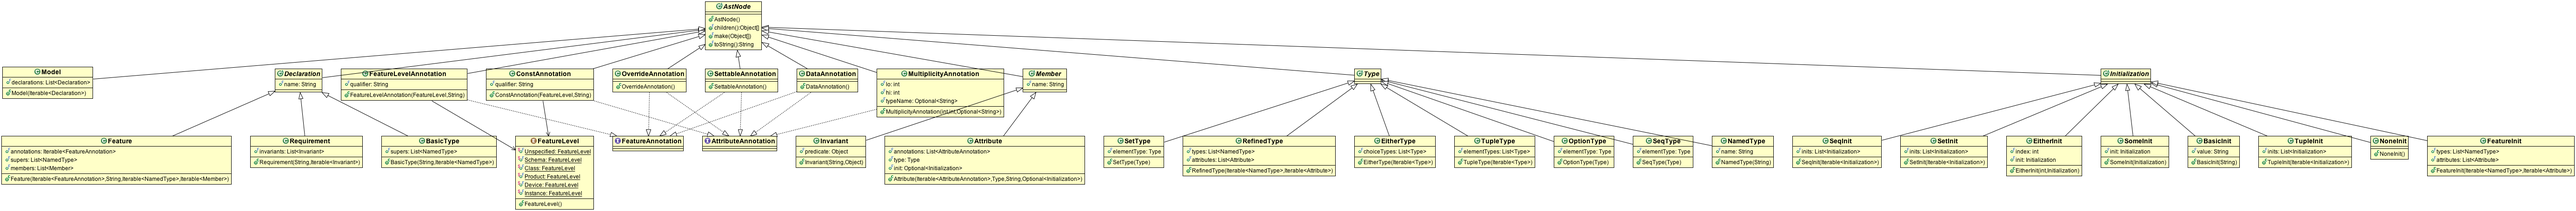
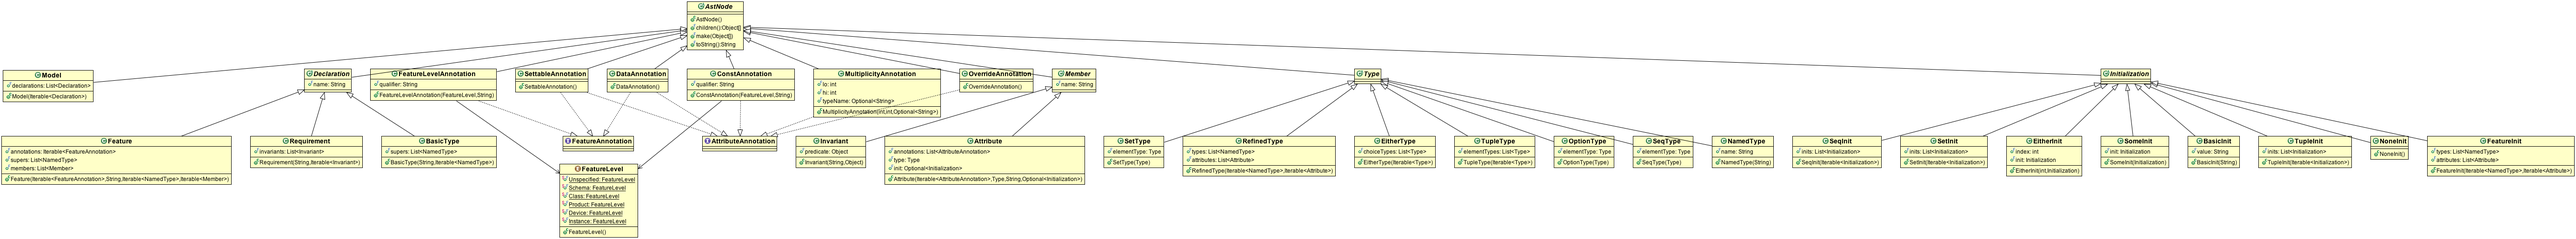
Removed FeatureAnnotation as super interface of OverrideAnnotation.

Changed region(s): [[0.0, 0.0, 0.9995, 1.0], [0.7184, 0.2769, 0.7808, 0.3385]]

diff --git a/doc/dms/searchindex.js b/doc/dms/searchindex.js
@@ -1,1 +1,1 @@
-Search.setIndex({objects:{},terms:{represent:[0,1,2,7,6,4],all:[0,3,6,4,2],code:[2,3,4,6],illustr:[4,6],queri:4,lack:6,xstream:4,four:0,invariantobject:0,edu:[1,4,6,2],follow:[0,3,4,6],guava:4,children:[2,4],whose:[0,6,2],"const":[0,7],xml:[2,3,4],icepulseox:0,basictypeappli:6,present:0,skip:4,leav:6,junit:[3,4],introduc:0,sourc:[3,4],string:[0,1,2,7,5,6,4],fals:[5,4,6],"void":4,lattic:[0,6],util:[3,4],defaultcas:4,stackoverflow:[],affect:2,exact:0,relev:[0,4,6],exmodelsymbolt:4,level:[0,3,7],list:[0,1,2,4,5,6],iter:4,kansa:1,"try":3,id_requir:0,team:3,println:4,oximet:0,pleas:[0,3,6],prevent:0,basictypebodi:6,uniqu:[],second:[4,6],design:2,nulliti:[1,7,2],pass:3,download:3,further:4,click:3,append:6,what:[2,4],abc:2,sub:[0,4,6,1],neg:[],section:[0,7,4,6],"while":[0,2],access:[3,4],"new":[5,0,4,6],exsbasictypefail:6,method:[0,4,6,2],midbar:2,oci:1,fromxml:4,behavior:[2,6],variat:7,gener:[0,6,1],xstreamer:[0,1,2,4,5,6],here:7,satisfi:[0,6],id_appli:6,address:4,stxml:4,depend:0,along:4,parenthesi:[2,6],modifi:0,implicit:[0,1,2,7,5,6,4],valu:[0,1,2,4,5,6],box:3,convert:[4,6],convers:[1,7,4,6],id_attribut:[5,0],addion:[],step:3,precis:[4,6],overriden:[0,4],opinion:1,implement:[1,7,6,4,2],jre:3,writer:[0,1,2,4,5,6],shorthand:2,integraltyp:[0,1,2,4,5,6],appli:[0,1,2,4,5,6],app:[3,4],foundat:1,backtick:0,put:0,"boolean":[0,1,2,4,5,6],supertransitivemap:[0,6],instal:3,select:3,from:[0,4,6,2],describ:[0,7,6,4,2],would:[0,4],memori:3,pred:[0,1,2,4,5,6],prescript:7,visit:4,subvers:3,call:[0,4,6,2],typo:0,recommend:[0,4,6,1],basictypeopt:6,care:6,type:[0,1,2,7,5,6,4],basicasstringmethod:6,recoqn:6,more:[0,4,6,2],diamond:0,trait:[0,1,2,4,5,6],notif:4,exbasictyp:[],notic:4,warn:4,indic:[0,3,6,4,2],particular:0,hold:[0,6],must:0,none:5,retriev:[0,4,6],setup:4,work:[0,3,4],annot:[0,7,1],can:[0,2,3,4,6,7],jdt:3,purpos:[0,6],root:6,def:6,overrid:[5,0,7,4,6],factori:[1,7,6],weaker:4,want:0,stream:4,give:[4,6],process:[0,4,2],exmodel:4,spo2:0,javadoc:4,accept:[0,7],high:0,liter:6,id_featur:0,serial:[0,1,2,7,5,6,4],occur:[2,4],alwai:[4,6],differenti:0,constmod:[],multipl:[0,7,4],quot:2,anoth:6,scalapi:[],write:3,how:[7,4,6],pure:6,instead:[0,3,7,4,6],simpl:6,circular:6,exsbasictypeexplicit:6,featuremodifi:[],product:[0,2],recogn:0,circuit:4,kindopt:[0,6],max:0,after:[0,3,4,2],variant:[0,4],reflect:[0,4,1],befor:[0,3,4,6],cours:4,mai:[0,4,2],mutat:2,underscor:2,data:[0,7],funsuit:4,third:4,grant:1,explicit:6,element:[0,4],issu:[3,4],inform:0,combin:4,dread:0,namedtyp:[0,6],subtyp:[4,6],svnkit:3,order:7,ssh:3,extractor:7,medic:0,help:3,over:[0,6],becaus:[2,7,4,6],through:[2,4],symbolt:[0,1,2,7,5,6,4],hierarchi:[0,7,6,1],still:[0,3],dynam:4,paramet:[2,4],style:3,group:2,thank:4,jettison:4,scalaexp:[5,0,6,2],cla:0,bytecod:4,platform:3,offic:1,persist:3,featurelevel:0,main:0,easier:4,non:[0,4,6,2],"return":[0,4,2],thei:[0,4,6],auto:0,initi:[0,1,7,5,6,4],nation:1,mention:[0,4,1],automat:6,ebnf:2,discuss:[2,6],fromjson:4,introduct:0,grammar:[0,4,6,2],name:[0,4,6],intrang:0,separ:[2,6],token:2,val:[0,1,2,4,5,6],massachusett:1,each:[0,4,6,2],debug:6,fulli:[0,4,6],side:6,mean:[0,3,6],compil:[2,3,4,6],outputstream:[0,1,2,4,5,6],formatterprefer:3,laboratori:1,continu:4,line:[3,4,6],meta:[],"static":[2,4],expect:[4,6],exmodelvisitor:4,mxml:4,extract:[0,1,2,7,6,4],special:0,out:[4,6],variabl:[0,4],visitbasictyp:[0,1,2,4,5,6],shown:[4,6],unbound:0,dataannot:0,req:0,research:1,content:1,typenam:0,rational:[],reader:[0,1,2,4,5,6],print:4,astnod:[2,4],ref:[],correct:3,multiplicityannot:0,qualifi:[0,4,6,2],proxi:4,insid:4,ast:[0,1,2,4,5,6],situat:[4,6],given:[2,4],free:[0,2],multimonitor:4,reason:0,custim:4,ask:3,org:[3,4],hand:4,basi:[],thrown:4,diagram:[0,2],featureannot:0,launch:3,angl:2,turn:0,enforc:[0,6,2],place:4,outsid:0,attributeannot:0,confus:[0,6],assign:[0,6],first:[0,4,6],oper:[1,7,6],softwar:[],rang:[0,1,2,4,5,6],directli:[0,6],arrai:[2,4],number:[0,1,2,4,5,6],declarationnam:[0,6],instruct:3,alreadi:3,done:[0,2],least:[0,6],owner:3,agre:3,facil:0,size:[0,4],avail:[3,4,6],differ:[0,7,4],featurelevelannot:0,workaround:0,associ:[0,2],top:[0,4],system:4,wrapper:6,necessarili:1,similarli:[0,3,6,2],termin:0,cimit:1,"final":[0,6,2],store:[0,6,2],schema:[0,1,2,4,5,6],adher:0,consol:4,option:[5,2,6],tool:0,copi:[],specifi:[0,7,4,2],"short":4,accompani:[0,6],than:[0,4],wide:3,kind:[0,6],scheme:0,whenev:[0,4],provid:[0,7,6,4,2],quantum:1,tree:[0,6,2],rate:0,importdm:4,charact:2,project:3,macro:[0,1,2,4,5,6],ilist:4,exmodelextractor:4,runner:4,ani:[0,1,3,5,6,4],packag:[0,1,2,3,5,6,4],have:[0,3,4,6],tabl:[0,1,2,7,6,4],need:[4,6],seen:4,seem:[4,6],nellcorpulseox:4,squar:2,equival:[2,4,6],min:0,rout:4,predicatetyp:0,contact:[1,3],note:[0,7,4,6],mix:0,exampl:[0,1,2,4,5,6],take:4,which:[0,4,6,2],featureopt:0,environ:[1,3],sure:[3,4],node:[2,4],allow:[0,4,6],object:[0,1,2,4,5,6],reach:4,physioparam:0,exmodelweak:4,letter:4,"class":[0,1,2,7,5,6,4],appear:4,doe:[0,4,6,2],declar:[0,1,2,7,6,4],runtim:[2,4],clean:3,constrain:0,left:[5,4],show:3,visitor:[1,7,4,2],syntax:[0,2],isfeaturetyp:[],find:[1,4],ksu:[2,4,6],current:[0,4],onli:[0,6,2],explicitli:[0,6],explain:2,configur:3,exsbasictyp:6,behind:2,should:[0,2,3,4,6,7],basictypeobject:6,templat:[],folder:3,custom:[0,3,4],variou:[0,4,2],familiar:7,express:[0,7,2,4,1],nativ:3,cannot:0,classload:4,report:4,requir:[0,1,2,7,5,6,4],sireum:[3,4],enabl:3,organ:[1,6],naur:2,"public":[2,4],contain:[0,4],nibib:1,where:[0,4],view:[1,6],user:[4,6],de_seri:4,set:[0,1,3,5,6,4],seq:5,robbi:1,rangeset:0,metricattribut:0,id_bas:[5,2,6],sec:[],result:6,arg:3,fail:[3,6],close:3,detect:0,kei:3,eclip:3,pattern:[0,4],boundari:6,conveni:4,state:[6,0,2,1],between:0,"import":[2,3,4,6],entiti:[2,4,6],basictypeclass:6,attribut:[0,1,7,5,6,4],altern:[2,4,6],extend:[0,4,6,2],weak:4,disallow:0,weav:3,lowercas:4,noninpulseox:4,eclips:3,isbasictyp:6,addit:[0,3,6,4,2],closur:0,last:0,delimit:[0,2],issupertypeof:[0,6],career:1,howev:[0,4],equal:0,contract:1,attributeinvari:[],instanc:[0,4,6],context:2,mani:4,whole:[],load:4,among:4,visitdeclar:[0,1,2,4,5,6],simpli:6,sireumdev:3,overview:[1,7,2],exsbasictypeappli:6,written:4,classof:[0,4],suppli:[3,4],respect:[0,3,4,2],inadvert:0,assum:4,quit:3,unsuccess:3,java:[0,2,3,4,5,6,7],addition:6,primordi:4,devic:[0,7,6,1],three:0,empti:[0,4],github:3,json:4,unexpect:6,treat:7,interest:4,basic:[0,1,2,7,6,4],decend:4,attributeinit:5,inv:0,both:4,formed:[0,1,2,7,6,4],argument:3,coordin:0,zero:[0,2],togeth:0,workspac:3,predic:[0,1,2,4,5,6],univers:[0,6,1],repetit:2,those:1,"case":[0,4,6],look:6,tostr:[0,1,2,4,5,6],also:[2,3,4],properti:3,air:1,formatt:3,defin:[2,4,6],invok:4,abov:4,error:[3,4,6],anonym:0,basicinternaltyp:6,observ:[2,6],larger:0,helper:4,henc:[2,4],them:0,basictypeapplyoth:6,overrideannot:0,lightweight:0,recal:6,tojson:4,dedic:0,sever:[0,6],scienc:1,incompat:4,develop:[0,3,1],welcom:1,author:1,make:[3,4],belong:0,classpath:4,same:[4,6],member:[0,3,4],descend:6,icedevic:0,constannot:0,document:[0,6,1],infer:[4,6],complet:0,nih:1,http:3,structur:[0,4,6,2],see:[0,4,6],optim:2,pick:3,"null":2,effect:6,companion:[0,1,2,4,5,6],pulseox:0,refin:[5,0,7,1],typic:6,built:[1,7,6],basicopmethod:[0,6],travers:[1,7,4],appropri:[2,4],lib:3,choos:4,com:[],thu:[0,4,6],well:[0,1,2,7,6,4],inherit:[0,6,2],without:[0,4],runtimeexcept:4,client:3,command:3,thi:[0,1,3,4,6,7],interpol:[0,1,2,4,5,6],model:[0,1,2,7,6,4],ccf:1,guidelin:7,moreov:[0,3],usual:0,construct:[0,7,2,4,1],identifi:[0,2],just:[4,6],less:0,fa9550:1,compound:0,basicinit:6,settabl:[0,7],regardless:6,languag:[0,7,1],previous:[0,4,6,1],scalatest:4,runwith:4,hint:2,point:0,except:4,ivisitor:[0,1,2,4,5,6],add:[0,3],valid:2,primit:6,illust:4,settbleannot:[],subsequ:4,warrant:4,match:0,build:[2,4],applic:0,assig:0,function1:0,format:3,read:[0,4],prefer:3,issubtypeof:[0,6],realiz:4,know:2,part:[0,2,1],you:3,formal:2,insert:6,like:[2,4],specif:[0,7,2,4,1],arbitrari:[],manual:4,exsmodel:4,integ:[],collect:0,api:[0,1,2,7,6,4],either:[5,0,4,6],output:4,inter:0,mdcf:[0,1,2,3,5,6,4],page:3,deseri:4,www:3,right:[5,3,4],acknowledg:1,some:[0,2,3,4,5,7],back:4,extractmodel:4,resolv:[0,2],intern:6,subtransitivemap:[0,6],"export":6,mistak:0,librari:3,throughout:2,lead:0,scala:[0,1,2,3,4,5,6,7],avoid:0,per:[],evolv:0,exit:3,settl:0,sequenc:0,uml:[0,2],foo:[4,6],refer:[2,4,6],plu:2,investig:4,run:[0,3],signifi:[],word:6,basictostringmethod:6,repositori:3,found:[4,6],santo:[1,4,6,2],immut:[1,7,6,4,2],"super":[0,6],"throw":4,stage:0,settableannot:0,isfeatur:0,constraint:0,materi:1,commun:0,unfortun:0,map:0,includ:4,dialog:3,constructor:[2,6],commit:3,produc:[2,4,6],block:4,attributemodifi:5,subset:[0,2],abstractvisitor:[0,1,2,4,5,6],consid:[0,6],unreach:4,within:0,encod:7,bound:0,nsf:1,featuretyp:[5,0],down:4,toxml:4,been:0,wrap:6,chang:[0,2],your:3,sireum_hom:3,unconvent:0,inclus:0,institut:1,basictyp:[0,1,2,4,5,6],wai:7,support:[0,4,1],question:[],why:0,myreqpulseox:[0,1,2,4,5,6],start:[0,4,2],interfac:[3,4],low:0,under:2,"function":0,svn:3,visitmodel:4,properli:4,tangibl:[],form:[0,1,2,7,6,4],modelextractor:[0,1,2,4,5,6],forc:1,somehow:3,navig:0,bodi:0,reifi:0,eas:[0,6],mitig:0,"true":[5,4,6],bug:4,conclus:1,info:[0,2],notat:[],made:6,consist:[0,6],possibl:[0,7],"default":[0,3,6,4,2],hardwar:[],dml:[0,1,2,3,4,5,6,7],"abstract":[2,4,6],below:[0,4,6],unspecifi:0,otherwis:4,problem:[0,4],similar:[0,4],puls:0,illegalargumentexcept:4,featur:[0,1,2,7,5,6,4],constant:[0,2],creat:[4,6],"int":[0,1,2,4,5,6],dure:[0,4],repres:[0,4,6],strongli:0,diagnost:3,codestyl:3,exist:[0,6],file:[3,4],plan:3,hospit:1,check:4,bracket:2,assembl:[],denot:2,exmodelxml:4,backu:2,when:[0,3,6,4,2],virtual:[],field:[0,2],id_invari:0,other:[0,4,6],nat:[0,1,2,4,5,6],peopl:7,test:[3,4],junitrunn:4,scalaapi:[],asstr:[0,1,2,4,5,6],declarationmap:[0,6],draw:6,relat:[0,6],star:2,exp:[],mismatch:6,symbol:[0,1,2,7,5,6,4],inputstream:[0,1,2,4,5,6],intent:2,award:1,eval:4,encount:4,doubl:2,relaunch:3,lang:[5,0,6,2],furthermor:[2,6],scientif:1,directori:3,constlevel:0,rule:[2,6],basictypetrait:6,complianc:3,portion:4,time:[0,4,2],invari:[0,1,2,7,5,6,4]},objtypes:{},titles:["Feature and Requirement","Welcome to MDCF DML&#8217;s documentation","Overview","Setting Up Development Environment","Model","Type and Initialization","Basic Type","Language Specification and Implementation"],objnames:{},filenames:["language/feature","index","language/overview","setup","language/model","language/type","language/basictype","language/language"]})
+Search.setIndex({objects:{},terms:{represent:[0,1,2,7,5,6],all:[0,3,5,7,2],code:[2,3,7,5],illustr:[7,5],queri:7,lack:5,xstream:7,four:0,invariantobject:0,edu:[1,7,5,2],follow:[0,3,7,5],guava:7,children:[2,7],whose:[0,5,2],"const":[0,6],icepulseox:0,basictypeappli:5,those:1,skip:7,exit:3,junit:[3,7],introduc:0,sourc:[3,7],string:[0,1,2,7,4,5,6],fals:[4,7,5],"void":7,lattic:[0,5],util:[3,7],print:7,stackoverflow:[],affect:2,jettison:7,relev:[0,7,5],exmodelsymbolt:7,level:[0,3,6],list:[0,1,2,7,4,5],iter:7,kansa:1,"try":3,id_requir:0,form:[0,1,2,7,5,6],team:3,println:7,oximet:0,pleas:[0,3,5],prevent:0,basictypebodi:5,eas:[0,5],uniqu:[],second:[7,5],design:2,nulliti:[1,6,2],pass:3,download:3,further:7,click:3,append:5,what:[2,7],abc:2,sub:[0,7,5,1],neg:[],section:[0,7,6,5],invok:7,access:[3,7],"new":[4,0,7,5],exsbasictypefail:5,method:[0,7,5,2],midbar:2,ksu:[2,7,5],fromxml:7,abov:7,variat:6,gener:[0,5,1],xstreamer:[0,1,2,7,4,5],here:6,satisfi:[0,5],id_appli:5,address:7,depend:0,along:7,multimonitor:7,modifi:0,implicit:[0,1,2,7,4,5,6],valu:[0,1,2,7,4,5],box:3,convert:[7,5],convers:[1,7,6,5],id_attribut:[4,0],addion:[],basictostringmethod:5,precis:[7,5],overriden:[0,7],opinion:1,implement:[1,7,5,6,2],jre:3,configur:3,shorthand:2,integraltyp:[0,1,2,7,4,5],appli:[0,1,2,7,4,5],app:[3,7],foundat:1,backtick:0,ask:3,"boolean":[0,1,2,7,4,5],supertransitivemap:[0,5],instal:3,select:3,from:[0,7,5,2],describ:[0,7,5,6,2],would:[0,7],memori:3,pred:[0,1,2,7,4,5],prescript:6,visit:7,dure:[0,7],subvers:3,call:[0,7,5,2],typo:0,recommend:[0,7,5,1],basictypeopt:5,basi:[],type:[0,1,2,7,4,5,6],basicasstringmethod:5,recoqn:5,more:[0,7,5,2],diamond:0,trait:[0,1,2,7,4,5],notif:7,exbasictyp:[],notic:7,warn:7,indic:[0,3,5,7,2],particular:0,hold:[0,5],must:0,none:4,retriev:[0,7,5],setup:7,work:[0,3,7],annot:[0,6,1],can:[0,2,6,7,5,3],jdt:3,purpos:[0,5],root:5,def:5,overrid:[4,0,7,6,5],factori:[1,6,5],weaker:7,want:0,stream:7,give:[7,5],process:[0,7,2],exmodel:7,spo2:0,javadoc:7,accept:[0,6],high:0,liter:5,id_featur:0,serial:[0,1,2,7,4,5,6],occur:[2,7],alwai:[7,5],differenti:0,constmod:[],multipl:[0,7,6],quot:2,anoth:5,scalapi:[],write:3,how:[7,6,5],low:0,pure:5,ebnf:2,simpl:5,circular:5,exsbasictypeexplicit:5,featuremodifi:[],product:[0,2],recogn:0,outsid:0,kindopt:[0,5],max:0,after:[0,3,7,2],variant:[0,7],diagram:[0,2],befor:[0,3,7,5],cours:7,mai:[0,7,2],develop:[0,3,1],underscor:2,associ:[0,2],funsuit:7,third:7,interpol:[0,1,2,7,4,5],author:1,explicit:5,element:[0,7],issu:[3,7],inform:0,combin:7,dread:0,namedtyp:[0,5],subtyp:[7,5],order:6,classload:7,extractor:6,belong:0,help:3,over:[0,5],becaus:[2,7,6,5],abstractvisitor:[0,1,2,7,4,5],through:[2,7],symbolt:[0,1,2,7,4,5,6],hierarchi:[0,6,5,1],still:[0,3],dynam:7,paramet:[2,7],style:3,group:2,thank:7,exact:0,scalaexp:[4,0,5,2],cla:0,bytecod:7,platform:3,offic:1,whole:[],persist:3,featurelevel:0,main:0,easier:7,non:[0,7,5,2],"return":[0,7,2],thei:[0,7,5],auto:0,initi:[0,1,7,4,5,6],nation:1,mention:[0,7,1],nsf:1,instead:[6,0,3,7,5],discuss:[2,5],fromjson:7,introduct:0,grammar:[0,7,5,2],name:[0,7,5],intrang:0,separ:[2,5],token:2,val:[0,1,2,7,4,5],massachusett:1,each:[0,7,5,2],debug:5,fulli:[0,7,5],side:5,mean:[0,3,5],compil:[2,3,7,5],outputstream:[0,1,2,7,4,5],formatterprefer:3,laboratori:1,continu:7,meta:[],"static":[2,7],expect:[7,5],exmodelvisitor:7,mxml:7,extract:[0,1,2,7,5,6],special:0,out:[7,5],variabl:[0,7],visitbasictyp:[0,1,2,7,4,5],shown:[7,5],unbound:0,dataannot:0,req:0,research:1,content:1,typenam:0,rational:[],reader:[0,1,2,7,4,5],defaultcas:7,astnod:[2,7],ref:[],correct:3,multiplicityannot:0,qualifi:[0,7,5,2],asstr:[0,1,2,7,4,5],proxi:7,insid:7,ast:[0,1,2,7,4,5],situat:[7,5],given:[2,7],free:[0,2],parenthesi:[2,5],reason:0,custim:7,put:0,org:[3,7],exmodelweak:7,companion:[0,1,2,7,4,5],organ:[1,5],care:5,thrown:7,reflect:[0,7,1],featureannot:0,launch:3,angl:2,turn:0,enforc:[0,5,2],place:7,circuit:7,confus:[0,5],assign:[0,5],first:[0,7,5],oper:[1,6,5],softwar:[],rang:[0,1,2,7,4,5],directli:[0,5],arrai:[2,7],number:[0,1,2,7,4,5],declarationnam:[0,5],instruct:3,alreadi:3,done:[0,2],wrapper:5,owner:3,agre:3,facil:0,stage:0,size:[0,7],myreqpulseox:[0,1,2,7,4,5],differ:[0,7,6],featurelevelannot:0,workaround:0,data:[0,6],top:[0,7],system:7,least:[0,5],necessarili:1,similarli:[0,3,5,2],termin:0,cimit:1,"final":[0,5,2],store:[0,5,2],schema:[0,1,2,7,4,5],adher:0,consol:7,option:[4,2,5],tool:0,copi:[],specifi:[0,7,6,2],"short":7,accompani:[0,5],than:[0,7],wide:3,kind:[0,5],scheme:0,whenev:[0,7],provid:[0,7,5,6,2],pulseox:0,tree:[0,5,2],rate:0,importdm:7,charact:2,project:3,ilist:7,exmodelextractor:7,close:3,runner:7,ani:[0,1,3,4,5,7],packag:[0,1,2,3,4,5,7],have:[0,3,7,5],tabl:[0,1,2,7,5,6],need:[7,5],seen:7,seem:[7,5],nellcorpulseox:7,squar:2,equival:[2,7,5],min:0,rout:7,runtimeexcept:7,predicatetyp:0,client:3,note:[0,7,6,5],mix:0,exampl:[0,1,2,7,4,5],take:7,which:[0,7,5,2],featureopt:0,environ:[1,3],sure:[3,7],allow:[0,7,5],object:[0,1,2,7,4,5],reach:7,attributemodifi:4,letter:7,"class":[0,1,2,7,4,5,6],appear:7,doe:[0,7,5,2],declar:[0,1,2,7,5,6],runtim:[2,7],clean:3,constrain:0,usual:0,oci:1,show:3,visitor:[1,7,6,2],syntax:[0,2],isfeaturetyp:[],find:[1,7],xml:[2,3,7],current:[0,7],onli:[0,5,2],explicitli:[0,5],explain:2,writer:[0,1,2,7,4,5],exsbasictyp:5,state:[5,0,2,1],should:[0,2,6,7,5,3],fa9550:1,templat:[],folder:3,custom:[0,3,7],variou:[0,7,2],familiar:6,express:[0,7,2,6,1],nativ:3,cannot:0,ssh:3,report:7,requir:[0,1,2,7,4,5,6],sireum:[3,7],enabl:3,attributeannot:0,naur:2,"public":[2,7],contain:[0,7],nibib:1,where:[0,7],view:[1,5],altern:[2,7,5],set:[0,1,3,4,5,7],seq:4,robbi:1,rangeset:0,metricattribut:0,id_bas:[4,2,5],sec:[],result:5,arg:3,fail:[3,5],stxml:7,detect:0,extend:[0,7,5,2],eclip:3,pattern:[0,7],boundari:5,conveni:7,behind:2,between:0,mismatch:5,"import":[2,3,7,5],entiti:[2,7,5],basictypeclass:5,attribut:[0,1,7,4,5,6],de_seri:7,kei:3,weak:7,disallow:0,weav:3,lowercas:7,noninpulseox:7,eclips:3,addit:[0,3,5,7,2],closur:0,last:0,delimit:[0,2],issupertypeof:[0,5],career:1,howev:[0,7],equal:0,contract:1,attributeinvari:[],instanc:[0,7,5],context:2,mani:7,com:[],load:7,among:7,visitdeclar:[0,1,2,7,4,5],simpli:5,lang:[4,0,5,2],sireumdev:3,overview:[1,6,2],except:7,written:7,classof:[0,7],suppli:[3,7],respect:[0,3,7,2],inadvert:0,assum:7,quit:3,unsuccess:3,java:[0,2,3,4,5,6,7],addition:5,primordi:7,devic:[0,6,5,1],three:0,empti:[0,7],github:3,json:7,treat:6,interest:7,basic:[0,1,2,7,5,6],decend:7,attributeinit:4,inv:0,both:7,formed:[0,1,2,7,5,6],argument:3,coordin:0,zero:[0,2],togeth:0,workspac:3,predic:[0,1,2,7,4,5],repetit:2,present:0,"case":[0,7,5],look:5,diagnost:3,tostr:[0,1,2,7,4,5],also:[2,3,7],properti:3,air:1,formatt:3,defin:[2,7,5],"while":[0,2],behavior:[2,5],error:[3,7,5],anonym:0,basicinternaltyp:5,observ:[2,5],larger:0,helper:7,henc:[2,7],them:0,basictypeapplyoth:5,overrideannot:0,lightweight:0,recal:5,tojson:7,primit:5,dedic:0,sever:[0,5],scienc:1,incompat:7,mutat:2,welcom:1,grant:1,make:[3,7],medic:0,classpath:7,same:[7,5],member:[0,3,7],descend:5,icedevic:0,constannot:0,document:[0,5,1],infer:[7,5],complet:0,nih:1,http:3,structur:[0,7,5,2],see:[0,7,5],optim:2,pick:3,"null":2,effect:5,hand:7,user:[7,5],refin:[4,0,6,1],typic:5,built:[1,6,5],basicopmethod:[0,5],travers:[1,7,6],appropri:[2,7],lib:3,macro:[0,1,2,7,4,5],thu:[0,7,5],well:[0,1,2,7,5,6],inherit:[0,5,2],without:[0,7],physioparam:0,contact:[1,3],command:3,thi:[0,1,6,7,5,3],choos:7,model:[0,1,2,7,5,6],ccf:1,moreov:[0,3],left:[4,7],construct:[0,7,2,6,1],identifi:[0,2],just:[7,5],less:0,basictypeobject:5,compound:0,basicinit:5,settabl:[0,6],regardless:5,languag:[0,6,1],previous:[0,7,5,1],scalatest:7,runwith:7,hint:2,point:0,exsbasictypeappli:5,ivisitor:[0,1,2,7,4,5],add:[0,3],other:[0,7,5],guidelin:6,illust:7,settbleannot:[],subsequ:7,warrant:7,match:0,build:[2,7],applic:0,assig:0,format:3,read:[0,7],prefer:3,issubtypeof:[0,5],realiz:7,know:2,part:[0,2,1],junitrunn:7,formal:2,insert:5,like:[2,7],specif:[0,7,2,6,1],arbitrari:[],manual:7,exsmodel:7,integ:[],collect:0,api:[0,1,2,7,5,6],either:[4,0,7,5],output:7,inter:0,mdcf:[0,1,2,3,4,5,7],page:3,deseri:7,www:3,right:[4,3,7],acknowledg:1,some:[0,2,3,4,6,7],back:7,extractmodel:7,resolv:[0,2],intern:5,subtransitivemap:[0,5],"export":5,mistak:0,librari:3,throughout:2,lead:0,scala:[0,1,2,3,4,5,6,7],avoid:0,per:[],evolv:0,leav:5,settl:0,uml:[0,2],foo:[7,5],refer:[2,7,5],plu:2,investig:7,run:[0,3],signifi:[],word:5,step:3,repositori:3,found:[7,5],santo:[1,7,5,2],immut:[1,7,5,6,2],"super":[0,5],"throw":7,isbasictyp:5,settableannot:0,isfeatur:0,constraint:0,materi:1,commun:0,unfortun:0,map:0,dialog:3,constructor:[2,5],commit:3,produc:[2,7,5],block:7,svnkit:3,subset:[0,2],univers:[0,5,1],eval:7,unreach:7,within:0,encod:6,bound:0,automat:5,featuretyp:[4,0],down:7,toxml:7,been:0,wrap:5,chang:[0,2],your:3,sireum_hom:3,unconvent:0,inclus:0,institut:1,basictyp:[0,1,2,7,4,5],wai:6,support:[0,7,1],question:[],why:0,avail:[3,7,5],start:[0,7,2],interfac:[3,7],includ:7,under:2,"function":0,svn:3,visitmodel:7,properli:7,tangibl:[],unexpect:5,modelextractor:[0,1,2,7,4,5],forc:1,somehow:3,navig:0,bodi:0,reifi:0,line:[3,7,5],mitig:0,"true":[4,7,5],bug:7,conclus:1,info:[0,2],notat:[],made:5,consist:[0,5],possibl:[0,6],"default":[0,3,5,7,2],hardwar:[],dml:[0,1,2,3,4,5,6,7],below:[0,7,5],unspecifi:0,otherwis:7,problem:[0,7],similar:[0,7],puls:0,illegalargumentexcept:7,featur:[0,1,2,7,4,5,6],constant:[0,2],creat:[7,5],"int":[0,1,2,7,4,5],"abstract":[2,7,5],repres:[0,7,5],strongli:0,quantum:1,codestyl:3,exist:[0,5],file:[3,7],plan:3,hospit:1,check:7,bracket:2,assembl:[],denot:2,exmodelxml:7,backu:2,when:[0,3,5,7,2],virtual:[],field:[0,2],id_invari:0,valid:2,nat:[0,1,2,7,4,5],peopl:6,test:[3,7],you:3,scalaapi:[],node:[2,7],declarationmap:[0,5],draw:5,relat:[0,5],star:2,exp:[],sequenc:0,symbol:[0,1,2,7,4,5,6],inputstream:[0,1,2,7,4,5],intent:2,award:1,consid:[0,5],encount:7,doubl:2,relaunch:3,function1:0,furthermor:[2,5],scientif:1,directori:3,constlevel:0,rule:[2,5],basictypetrait:5,complianc:3,portion:7,time:[0,7,2],invari:[0,1,2,7,4,5,6]},objtypes:{},titles:["Feature and Requirement","Welcome to MDCF DML&#8217;s documentation","Overview","Setting Up Development Environment","Type and Initialization","Basic Type","Language Specification and Implementation","Model"],objnames:{},filenames:["language/feature","index","language/overview","setup","language/type","language/basictype","language/language","language/model"]})

diff --git a/doc/dml/edu/ksu/cis/santos/mdcf/dml/ast/package-tree.html b/doc/dml/edu/ksu/cis/santos/mdcf/dml/ast/package-tree.html
@@ -107,7 +107,7 @@
 </li>
 <li type="circle">edu.ksu.cis.santos.mdcf.dml.ast.<a href="../../../../../../../edu/ksu/cis/santos/mdcf/dml/ast/Model.html" title="class in edu.ksu.cis.santos.mdcf.dml.ast"><span class="strong">Model</span></a></li>
 <li type="circle">edu.ksu.cis.santos.mdcf.dml.ast.<a href="../../../../../../../edu/ksu/cis/santos/mdcf/dml/ast/MultiplicityAnnotation.html" title="class in edu.ksu.cis.santos.mdcf.dml.ast"><span class="strong">MultiplicityAnnotation</span></a> (implements edu.ksu.cis.santos.mdcf.dml.ast.<a href="../../../../../../../edu/ksu/cis/santos/mdcf/dml/ast/AttributeAnnotation.html" title="interface in edu.ksu.cis.santos.mdcf.dml.ast">AttributeAnnotation</a>)</li>
-<li type="circle">edu.ksu.cis.santos.mdcf.dml.ast.<a href="../../../../../../../edu/ksu/cis/santos/mdcf/dml/ast/OverrideAnnotation.html" title="class in edu.ksu.cis.santos.mdcf.dml.ast"><span class="strong">OverrideAnnotation</span></a> (implements edu.ksu.cis.santos.mdcf.dml.ast.<a href="../../../../../../../edu/ksu/cis/santos/mdcf/dml/ast/AttributeAnnotation.html" title="interface in edu.ksu.cis.santos.mdcf.dml.ast">AttributeAnnotation</a>, edu.ksu.cis.santos.mdcf.dml.ast.<a href="../../../../../../../edu/ksu/cis/santos/mdcf/dml/ast/FeatureAnnotation.html" title="interface in edu.ksu.cis.santos.mdcf.dml.ast">FeatureAnnotation</a>)</li>
+<li type="circle">edu.ksu.cis.santos.mdcf.dml.ast.<a href="../../../../../../../edu/ksu/cis/santos/mdcf/dml/ast/OverrideAnnotation.html" title="class in edu.ksu.cis.santos.mdcf.dml.ast"><span class="strong">OverrideAnnotation</span></a> (implements edu.ksu.cis.santos.mdcf.dml.ast.<a href="../../../../../../../edu/ksu/cis/santos/mdcf/dml/ast/AttributeAnnotation.html" title="interface in edu.ksu.cis.santos.mdcf.dml.ast">AttributeAnnotation</a>)</li>
 <li type="circle">edu.ksu.cis.santos.mdcf.dml.ast.<a href="../../../../../../../edu/ksu/cis/santos/mdcf/dml/ast/SettableAnnotation.html" title="class in edu.ksu.cis.santos.mdcf.dml.ast"><span class="strong">SettableAnnotation</span></a> (implements edu.ksu.cis.santos.mdcf.dml.ast.<a href="../../../../../../../edu/ksu/cis/santos/mdcf/dml/ast/AttributeAnnotation.html" title="interface in edu.ksu.cis.santos.mdcf.dml.ast">AttributeAnnotation</a>, edu.ksu.cis.santos.mdcf.dml.ast.<a href="../../../../../../../edu/ksu/cis/santos/mdcf/dml/ast/FeatureAnnotation.html" title="interface in edu.ksu.cis.santos.mdcf.dml.ast">FeatureAnnotation</a>)</li>
 <li type="circle">edu.ksu.cis.santos.mdcf.dml.ast.<a href="../../../../../../../edu/ksu/cis/santos/mdcf/dml/ast/Type.html" title="class in edu.ksu.cis.santos.mdcf.dml.ast"><span class="strong">Type</span></a>
 <ul>

diff --git a/doc/dml/overview-tree.html b/doc/dml/overview-tree.html
@@ -109,7 +109,7 @@
 </li>
 <li type="circle">edu.ksu.cis.santos.mdcf.dml.ast.<a href="edu/ksu/cis/santos/mdcf/dml/ast/Model.html" title="class in edu.ksu.cis.santos.mdcf.dml.ast"><span class="strong">Model</span></a></li>
 <li type="circle">edu.ksu.cis.santos.mdcf.dml.ast.<a href="edu/ksu/cis/santos/mdcf/dml/ast/MultiplicityAnnotation.html" title="class in edu.ksu.cis.santos.mdcf.dml.ast"><span class="strong">MultiplicityAnnotation</span></a> (implements edu.ksu.cis.santos.mdcf.dml.ast.<a href="edu/ksu/cis/santos/mdcf/dml/ast/AttributeAnnotation.html" title="interface in edu.ksu.cis.santos.mdcf.dml.ast">AttributeAnnotation</a>)</li>
-<li type="circle">edu.ksu.cis.santos.mdcf.dml.ast.<a href="edu/ksu/cis/santos/mdcf/dml/ast/OverrideAnnotation.html" title="class in edu.ksu.cis.santos.mdcf.dml.ast"><span class="strong">OverrideAnnotation</span></a> (implements edu.ksu.cis.santos.mdcf.dml.ast.<a href="edu/ksu/cis/santos/mdcf/dml/ast/AttributeAnnotation.html" title="interface in edu.ksu.cis.santos.mdcf.dml.ast">AttributeAnnotation</a>, edu.ksu.cis.santos.mdcf.dml.ast.<a href="edu/ksu/cis/santos/mdcf/dml/ast/FeatureAnnotation.html" title="interface in edu.ksu.cis.santos.mdcf.dml.ast">FeatureAnnotation</a>)</li>
+<li type="circle">edu.ksu.cis.santos.mdcf.dml.ast.<a href="edu/ksu/cis/santos/mdcf/dml/ast/OverrideAnnotation.html" title="class in edu.ksu.cis.santos.mdcf.dml.ast"><span class="strong">OverrideAnnotation</span></a> (implements edu.ksu.cis.santos.mdcf.dml.ast.<a href="edu/ksu/cis/santos/mdcf/dml/ast/AttributeAnnotation.html" title="interface in edu.ksu.cis.santos.mdcf.dml.ast">AttributeAnnotation</a>)</li>
 <li type="circle">edu.ksu.cis.santos.mdcf.dml.ast.<a href="edu/ksu/cis/santos/mdcf/dml/ast/SettableAnnotation.html" title="class in edu.ksu.cis.santos.mdcf.dml.ast"><span class="strong">SettableAnnotation</span></a> (implements edu.ksu.cis.santos.mdcf.dml.ast.<a href="edu/ksu/cis/santos/mdcf/dml/ast/AttributeAnnotation.html" title="interface in edu.ksu.cis.santos.mdcf.dml.ast">AttributeAnnotation</a>, edu.ksu.cis.santos.mdcf.dml.ast.<a href="edu/ksu/cis/santos/mdcf/dml/ast/FeatureAnnotation.html" title="interface in edu.ksu.cis.santos.mdcf.dml.ast">FeatureAnnotation</a>)</li>
 <li type="circle">edu.ksu.cis.santos.mdcf.dml.ast.<a href="edu/ksu/cis/santos/mdcf/dml/ast/Type.html" title="class in edu.ksu.cis.santos.mdcf.dml.ast"><span class="strong">Type</span></a>
 <ul>

diff --git a/doc/dml/edu/ksu/cis/santos/mdcf/dml/ast/OverrideAnnotation.html b/doc/dml/edu/ksu/cis/santos/mdcf/dml/ast/OverrideAnnotation.html
@@ -99,13 +99,13 @@
 <li class="blockList">
 <dl>
 <dt>All Implemented Interfaces:</dt>
-<dd><a href="../../../../../../../edu/ksu/cis/santos/mdcf/dml/ast/AttributeAnnotation.html" title="interface in edu.ksu.cis.santos.mdcf.dml.ast">AttributeAnnotation</a>, <a href="../../../../../../../edu/ksu/cis/santos/mdcf/dml/ast/FeatureAnnotation.html" title="interface in edu.ksu.cis.santos.mdcf.dml.ast">FeatureAnnotation</a></dd>
+<dd><a href="../../../../../../../edu/ksu/cis/santos/mdcf/dml/ast/AttributeAnnotation.html" title="interface in edu.ksu.cis.santos.mdcf.dml.ast">AttributeAnnotation</a></dd>
 </dl>
 <hr>
 <br>
 <pre>public final class <span class="strong">OverrideAnnotation</span>
 extends <a href="../../../../../../../edu/ksu/cis/santos/mdcf/dml/ast/AstNode.html" title="class in edu.ksu.cis.santos.mdcf.dml.ast">AstNode</a>
-implements <a href="../../../../../../../edu/ksu/cis/santos/mdcf/dml/ast/FeatureAnnotation.html" title="interface in edu.ksu.cis.santos.mdcf.dml.ast">FeatureAnnotation</a>, <a href="../../../../../../../edu/ksu/cis/santos/mdcf/dml/ast/AttributeAnnotation.html" title="interface in edu.ksu.cis.santos.mdcf.dml.ast">AttributeAnnotation</a></pre>
+implements <a href="../../../../../../../edu/ksu/cis/santos/mdcf/dml/ast/AttributeAnnotation.html" title="interface in edu.ksu.cis.santos.mdcf.dml.ast">AttributeAnnotation</a></pre>
 <dl><dt><span class="strong">Author:</span></dt>
   <dd><a href="mailto:robby@k-state.edu">Robby</a></dd></dl>
 </li>

diff --git a/doc/dml/edu/ksu/cis/santos/mdcf/dml/ast/FeatureAnnotation.html b/doc/dml/edu/ksu/cis/santos/mdcf/dml/ast/FeatureAnnotation.html
@@ -86,7 +86,7 @@
 <li class="blockList">
 <dl>
 <dt>All Known Implementing Classes:</dt>
-<dd><a href="../../../../../../../edu/ksu/cis/santos/mdcf/dml/ast/DataAnnotation.html" title="class in edu.ksu.cis.santos.mdcf.dml.ast">DataAnnotation</a>, <a href="../../../../../../../edu/ksu/cis/santos/mdcf/dml/ast/FeatureLevelAnnotation.html" title="class in edu.ksu.cis.santos.mdcf.dml.ast">FeatureLevelAnnotation</a>, <a href="../../../../../../../edu/ksu/cis/santos/mdcf/dml/ast/OverrideAnnotation.html" title="class in edu.ksu.cis.santos.mdcf.dml.ast">OverrideAnnotation</a>, <a href="../../../../../../../edu/ksu/cis/santos/mdcf/dml/ast/SettableAnnotation.html" title="class in edu.ksu.cis.santos.mdcf.dml.ast">SettableAnnotation</a></dd>
+<dd><a href="../../../../../../../edu/ksu/cis/santos/mdcf/dml/ast/DataAnnotation.html" title="class in edu.ksu.cis.santos.mdcf.dml.ast">DataAnnotation</a>, <a href="../../../../../../../edu/ksu/cis/santos/mdcf/dml/ast/FeatureLevelAnnotation.html" title="class in edu.ksu.cis.santos.mdcf.dml.ast">FeatureLevelAnnotation</a>, <a href="../../../../../../../edu/ksu/cis/santos/mdcf/dml/ast/SettableAnnotation.html" title="class in edu.ksu.cis.santos.mdcf.dml.ast">SettableAnnotation</a></dd>
 </dl>
 <hr>
 <br>

diff --git a/doc/dms/language/overview.html b/doc/dms/language/overview.html
@@ -140,7 +140,7 @@ various parts of DMS; some of the well-formedness are enforced by the Scala
 compiler, while some additional ones are enforced by the <a class="reference external" href="https://github.com/mdcf/devicemodel/blob/master/mdcf-dms-core/src/main/scala/edu/ksu/cis/santos/mdcf/dms/ModelExtractor.scala">dms.ModelExtractor</a>, and some
 are (to be) done after the extraction process.</p>
 <div class="figure">
-<a class="reference internal image-reference" href="../_images/dml-ast.png"><img alt="../_images/dml-ast.png" src="../_images/dml-ast.png" style="width: 553.9px; height: 45.5px;" /></a>
+<a class="reference internal image-reference" href="../_images/dml-ast.png"><img alt="../_images/dml-ast.png" src="../_images/dml-ast.png" style="width: 553.9px; height: 51.5px;" /></a>
 <p class="caption">DML AST UML Class Diagram</p>
 </div>
 <div class="figure">

diff --git a/doc/dml/edu/ksu/cis/santos/mdcf/dml/ast/class-use/FeatureAnnotation.html b/doc/dml/edu/ksu/cis/santos/mdcf/dml/ast/class-use/FeatureAnnotation.html
@@ -105,10 +105,6 @@
 </tr>
 <tr class="altColor">
 <td class="colFirst"><code>class&nbsp;</code></td>
-<td class="colLast"><code><strong><a href="../../../../../../../../edu/ksu/cis/santos/mdcf/dml/ast/OverrideAnnotation.html" title="class in edu.ksu.cis.santos.mdcf.dml.ast">OverrideAnnotation</a></strong></code>&nbsp;</td>
-</tr>
-<tr class="rowColor">
-<td class="colFirst"><code>class&nbsp;</code></td>
 <td class="colLast"><code><strong><a href="../../../../../../../../edu/ksu/cis/santos/mdcf/dml/ast/SettableAnnotation.html" title="class in edu.ksu.cis.santos.mdcf.dml.ast">SettableAnnotation</a></strong></code>&nbsp;</td>
 </tr>
 </tbody>
